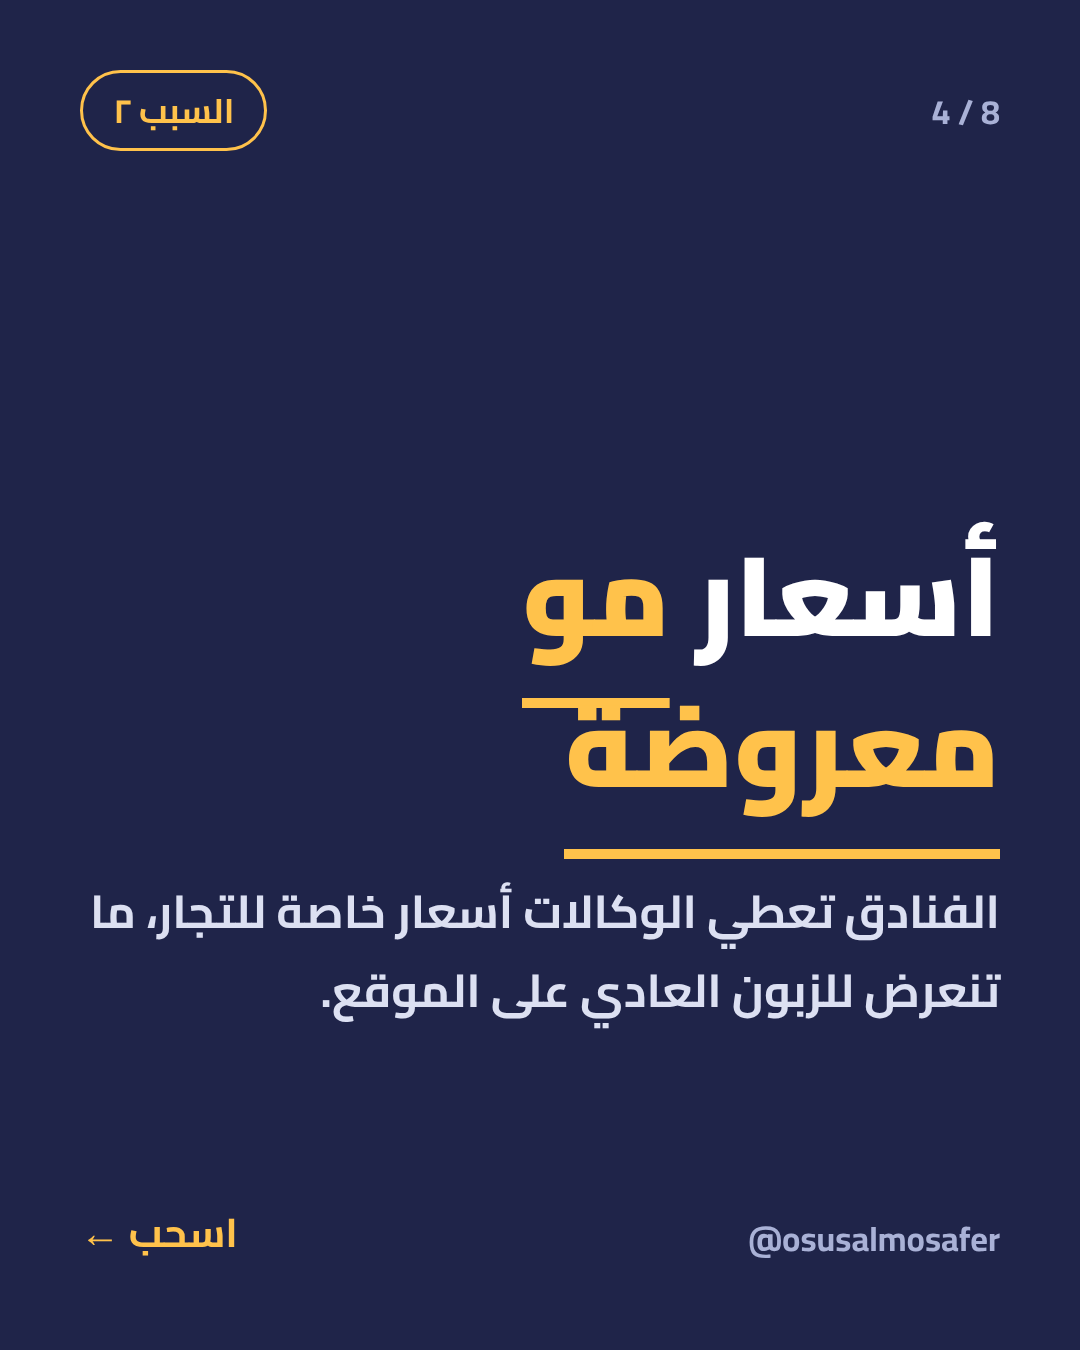
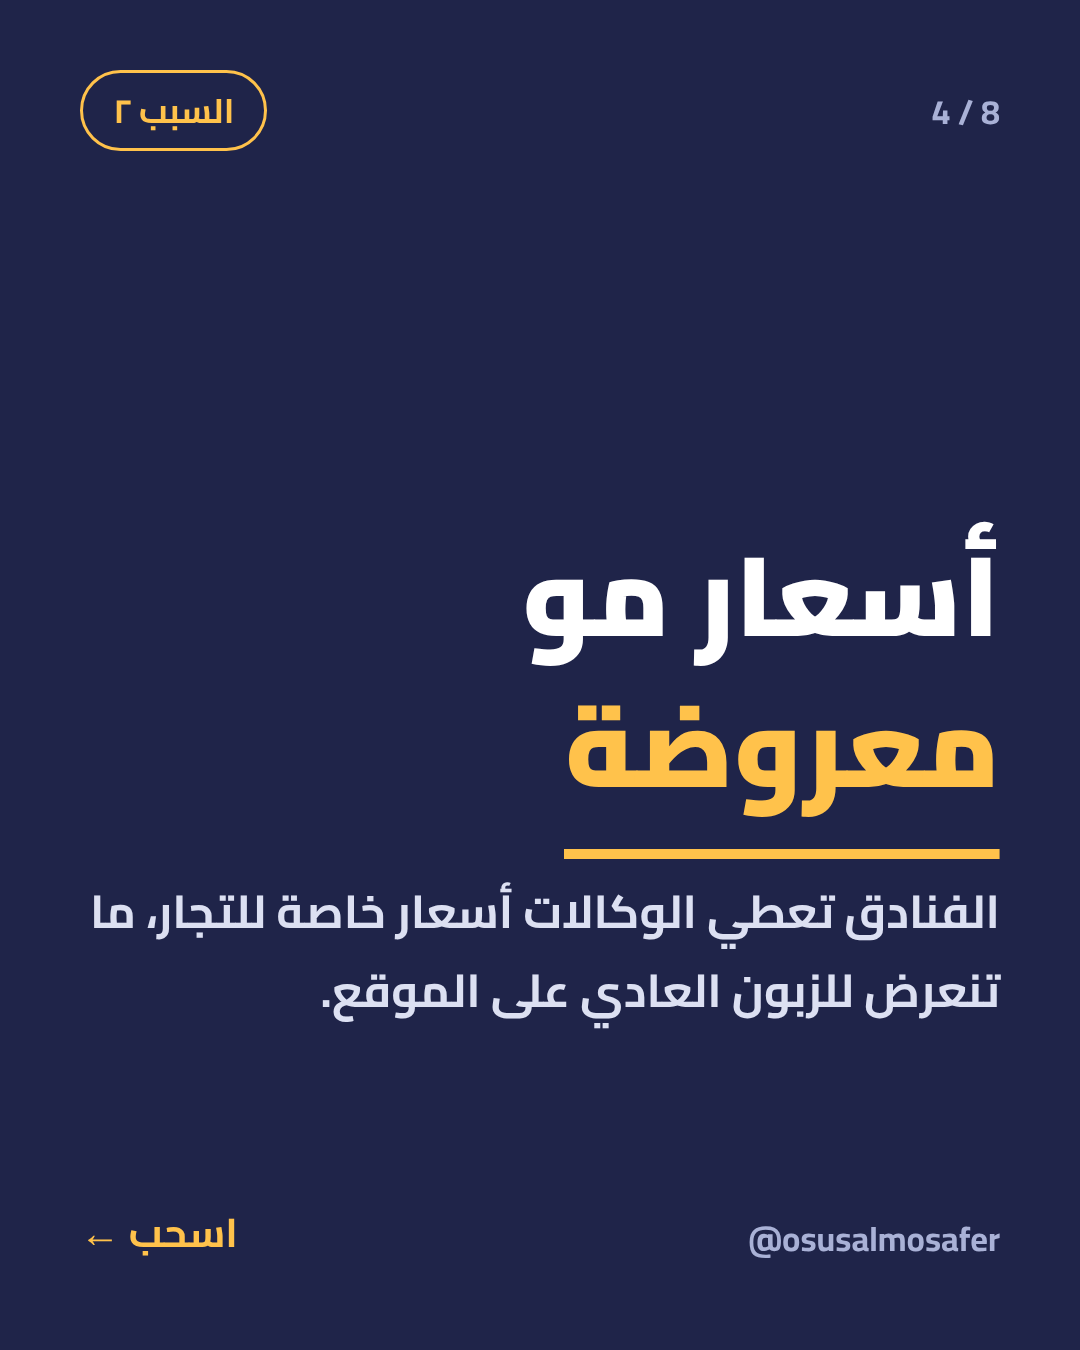
Carousel: fix highlight wrap, soften glow
Claude-Session: https://claude.ai/code/session_018nkkgV5L9WVzQYR2S6kDaX

Changed region(s): [[0.4889, 0.4044, 0.6111, 0.5289]]

diff --git a/carousel/carousel2.html b/carousel/carousel2.html
@@ -15,7 +15,7 @@ u{color:var(--ac);text-decoration:none;background:linear-gradient(var(--ac),var(
 .body,.sub{font-weight:700;font-size:46px;line-height:1.7;margin-top:50px;color:#DCE0F2}
 .big{position:absolute;left:60px;top:200px;font-size:420px;font-weight:900;color:var(--ac);opacity:.12;line-height:1;direction:ltr}
 .card .main{top:520px}
-.glow{position:absolute;left:-200px;bottom:-200px;width:900px;height:900px;background:radial-gradient(circle,rgba(255,194,75,.30),transparent 65%)}
+.glow{position:absolute;left:-200px;bottom:-200px;width:900px;height:900px;background:radial-gradient(circle,rgba(255,194,75,.16),transparent 65%)}
 .rings{position:absolute;left:-340px;bottom:-340px;width:760px;height:760px}
 .rings i{position:absolute;border:6px solid var(--ac);border-radius:50%;inset:0}
 .rings i:nth-child(2){inset:120px;opacity:.6}.rings i:nth-child(3){inset:240px;opacity:.35}
@@ -31,7 +31,7 @@ u{color:var(--ac);text-decoration:none;background:linear-gradient(var(--ac),var(
 <div class="main"><h1>عقود <u>بالجملة</u></h1><p class="body">الوكالة تحجز عدد كبير من الغرف مقدماً للموسم بسعر مخفض، وتبيعها لك بهامش أقل من سعر الواجهة.</p></div>
 <div class="brand">@osusalmosafer</div><div class="cue">اسحب ←</div></section><section class="slide card " id="s4">
 <div class="counter">4 / 8</div><div class="pill">السبب ٢</div>
-<div class="main"><h1>أسعار <u>مو معروضة</u></h1><p class="body">الفنادق تعطي الوكالات أسعار خاصة للتجار، ما تنعرض للزبون العادي على الموقع.</p></div>
+<div class="main"><h1>أسعار مو <u>معروضة</u></h1><p class="body">الفنادق تعطي الوكالات أسعار خاصة للتجار، ما تنعرض للزبون العادي على الموقع.</p></div>
 <div class="brand">@osusalmosafer</div><div class="cue">اسحب ←</div></section><section class="slide card " id="s5">
 <div class="counter">5 / 8</div><div class="pill">السبب ٣</div>
 <div class="main"><h1>عمولة <u>الوسيط</u></h1><p class="body">المواقع العالمية تاخذ عمولة من الفندق، والفندق يحسبها في السعر. الوكالة المحلية غالباً أقل تكلفة.</p></div>

diff --git a/carousel/gen2.py b/carousel/gen2.py
@@ -2,7 +2,7 @@ slides = [
  dict(kind="cover", label="حجز مكة", h="ليش الوكالات المحلية <u>أرخص</u> غالباً؟", sub="مقارنة بين المواقع العالمية والوكالات والفندق مباشرة"),
  dict(kind="chips", label="المقارنة", h="٣ طرق <u>للحجز</u>", chips=[("موقع عالمي","سهل وسريع، لكن السعر فيه عمولة"),("الفندق مباشرة","سعر الواجهة، وأحياناً عروض خاصة"),("وكالة محلية","عقود بالجملة وباقات مجمّعة")]),
  dict(kind="card", label="السبب ١", h="عقود <u>بالجملة</u>", body="الوكالة تحجز عدد كبير من الغرف مقدماً للموسم بسعر مخفض، وتبيعها لك بهامش أقل من سعر الواجهة."),
- dict(kind="card", label="السبب ٢", h="أسعار <u>مو معروضة</u>", body="الفنادق تعطي الوكالات أسعار خاصة للتجار، ما تنعرض للزبون العادي على الموقع."),
+ dict(kind="card", label="السبب ٢", h="أسعار مو <u>معروضة</u>", body="الفنادق تعطي الوكالات أسعار خاصة للتجار، ما تنعرض للزبون العادي على الموقع."),
  dict(kind="card", label="السبب ٣", h="عمولة <u>الوسيط</u>", body="المواقع العالمية تاخذ عمولة من الفندق، والفندق يحسبها في السعر. الوكالة المحلية غالباً أقل تكلفة."),
  dict(kind="card", label="توفير ١", h="احجز <u>بدري</u>", body="بعيد عن رمضان وأيام الحج الأسعار أقل بكثير. كل ما قربت من الموسم ارتفع السعر."),
  dict(kind="card", label="توفير ٢", h="قارن <u>نفس</u> الغرفة", body="اطلب ٣ عروض بنفس الليالي ونوع الغرفة والإفطار وشروط الإلغاء، وبعدين قارن السعر."),
@@ -37,7 +37,7 @@ u{{color:var(--ac);text-decoration:none;background:linear-gradient(var(--ac),var
 .body,.sub{{font-weight:700;font-size:46px;line-height:1.7;margin-top:50px;color:#DCE0F2}}
 .big{{position:absolute;left:60px;top:200px;font-size:420px;font-weight:900;color:var(--ac);opacity:.12;line-height:1;direction:ltr}}
 .card .main{{top:520px}}
-.glow{{position:absolute;left:-200px;bottom:-200px;width:900px;height:900px;background:radial-gradient(circle,rgba(255,194,75,.30),transparent 65%)}}
+.glow{{position:absolute;left:-200px;bottom:-200px;width:900px;height:900px;background:radial-gradient(circle,rgba(255,194,75,.16),transparent 65%)}}
 .rings{{position:absolute;left:-340px;bottom:-340px;width:760px;height:760px}}
 .rings i{{position:absolute;border:6px solid var(--ac);border-radius:50%;inset:0}}
 .rings i:nth-child(2){{inset:120px;opacity:.6}}.rings i:nth-child(3){{inset:240px;opacity:.35}}
